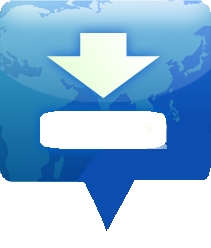
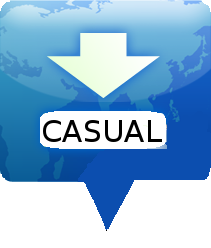
Improving browser mode Disabling javascript which causes hang in google settings after first click Toning down CASUAL glow Removing smiley face from 'CASUAL :)' because it's "unprofessional", even though Odin has 'Model Name :)'

Changed region(s): [[0.1991, 0.4798, 0.7678, 0.5927]]

diff --git a/trunk/X/JOdin3/src/com/casual_dev/jodin/JOdinController.java b/trunk/X/JOdin3/src/com/casual_dev/jodin/JOdinController.java
@@ -14,7 +14,6 @@ import CASUAL.caspac.Script;
 import CASUAL.communicationstools.heimdall.HeimdallTools;
 import CASUAL.communicationstools.heimdall.odin.CorruptOdinFileException;
 import CASUAL.communicationstools.heimdall.odin.Odin;
-import CASUAL.network.LinkLauncher;
 import java.io.File;
 import java.io.FileNotFoundException;
 import java.io.IOException;
@@ -28,12 +27,8 @@ import java.util.logging.Level;
 import java.util.logging.Logger;
 import javafx.animation.FadeTransition;
 import javafx.application.Platform;
-import javafx.beans.value.ChangeListener;
-import javafx.beans.value.ObservableValue;
-import javafx.collections.ObservableList;
 import javafx.fxml.FXML;
 import javafx.fxml.Initializable;
-import javafx.scene.Node;
 import javafx.scene.control.Button;
 import javafx.scene.control.CheckBox;
 import javafx.scene.control.Label;
@@ -42,7 +37,6 @@ import javafx.scene.control.TextArea;
 import javafx.scene.control.TextField;
 import javafx.scene.effect.GaussianBlur;
 import javafx.scene.layout.AnchorPane;
-import javafx.scene.layout.StackPane;
 import javafx.scene.paint.Paint;
 import javafx.scene.shape.Rectangle;
 import javafx.scene.web.WebEngine;
@@ -759,11 +753,8 @@ public class JOdinController implements Initializable, CASUAL.iCASUALUI {
                 try {
                     new CASUAL.network.Pastebin().doPosting();
                 } catch (MalformedURLException ex) {
-                    Logger.getLogger(JOdinController.class.getName()).log(Level.SEVERE, null, ex);
-
-                } catch (IOException ex) {
-                    Logger.getLogger(JOdinController.class.getName()).log(Level.SEVERE, null, ex);
-                } catch (URISyntaxException ex) {
+                    new CASUALMessageObject("Could not post ").showErrorDialog();
+                } catch (IOException | URISyntaxException ex) {
                     Logger.getLogger(JOdinController.class.getName()).log(Level.SEVERE, null, ex);
                 }
             }
@@ -840,6 +831,9 @@ public class JOdinController implements Initializable, CASUAL.iCASUALUI {
 
     @FXML
     private void webviewHover() {
+        if (! clicked){
+            return;
+        }
         ad.setMaxHeight(mainSurface.getHeight());
         ad.setMinHeight(mainSurface.getHeight());
         ad.setTranslateY((-mainSurface.getHeight()) + 90);
@@ -854,6 +848,16 @@ public class JOdinController implements Initializable, CASUAL.iCASUALUI {
         browserMode.setVisible(false);
     }
 
+    private boolean clicked=false;
+    
+    @FXML
+    private void webViewClicked(){
+        clicked=true;
+        WebEngine webEngine = ad.getEngine();
+        webEngine.setJavaScriptEnabled(false); //javascript runs slowly and causes problems. no scripts allowed. 
+        
+        webviewHover();
+    }
     private void initializeAd() {
         Platform.runLater(new Runnable() {
             @Override

diff --git a/trunk/X/JOdin3/src/com/casual_dev/jodin/JOdinMain.java b/trunk/X/JOdin3/src/com/casual_dev/jodin/JOdinMain.java
@@ -13,6 +13,7 @@ import javafx.event.EventHandler;
 import javafx.fxml.FXMLLoader;
 import javafx.scene.Parent;
 import javafx.scene.Scene;
+import javafx.scene.image.Image;
 import javafx.stage.Stage;
 import javafx.stage.WindowEvent;
 
@@ -33,7 +34,9 @@ public class JOdinMain extends Application {
         fileToBeDownloaded = this.getParameters().getNamed().get("file");
          //app.getParameters().getNamed("zip");
         stage.setScene(scene);
+        stage.getIcons().add(new Image("odinicon.png"));
         stage.show();
+        
 
         stage.setTitle("JODIN3      powered by Heimdall and CASUAL");
         stage.setResizable(false);
